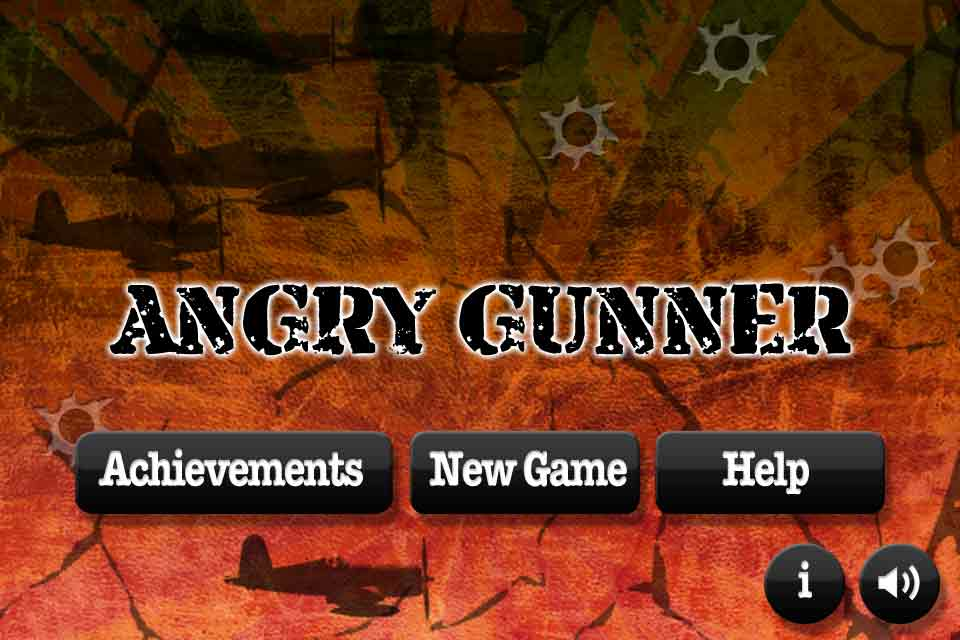
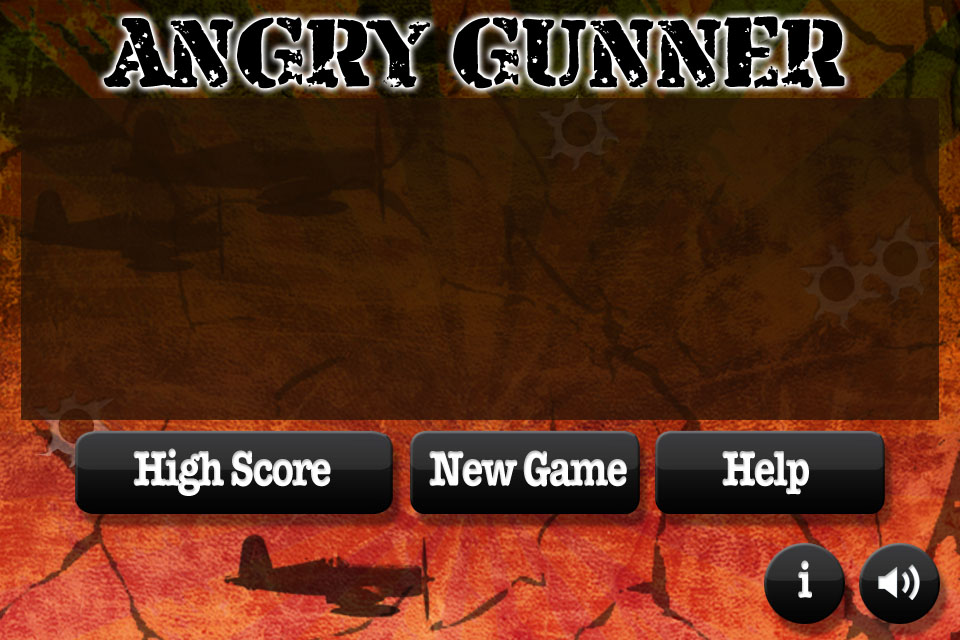
tweaked start screen

diff --git a/Classes/Start.m b/Classes/Start.m
@@ -8,7 +8,7 @@
 
 #import "Start.h"
 #import "Game.h"
-#import "Achievement.h"
+#import "Score.h"
 #import "Sound.h"
 #import "LevelData.h"
 #import "AchievementManager.h"
@@ -52,16 +52,16 @@ CCMenu *multiplierMenu;
         
         CCSprite *up =[CCSprite spriteWithFile:@"up.png"];
         [up setAnchorPoint:ccp(.5,.5)];
-        [up setPosition:ccp(450,290)];
+        [up setPosition:ccp(440,238)];
         [self addChild:up];
 
         CCSprite *down =[CCSprite spriteWithFile:@"down.png"];
         [down setAnchorPoint:ccp(.5,.5)];
-        [down setPosition:ccp(450,215)];
+        [down setPosition:ccp(440,140)];
         [self addChild:down];
 
-		CCMenuItem *options = [CCMenuItemFont itemFromString:@"ACHIEVEMENTS" target:self selector:@selector(viewAchievement:)];
-		CCMenuItem *start = [CCMenuItemFont itemFromString:@"|NewGa|" target:self selector:@selector(startGame:)];
+		CCMenuItem *score = [CCMenuItemFont itemFromString:@"VIEWHIGHSCORE" target:self selector:@selector(viewHighScore:)];
+		CCMenuItem *start = [CCMenuItemFont itemFromString:@"|NEWGA|" target:self selector:@selector(startGame:)];
 		CCMenuItem *help = [CCMenuItemFont itemFromString:@"HelpInfo" target:self selector:@selector(viewHelp:)];
 		CCMenuItem *info = [CCMenuItemFont itemFromString:@"INF" target:self selector:@selector(viewInfo:)];
 		CCMenuItem *speaker1 = [CCMenuItemFont itemFromString:@"SPP" target:self selector:@selector(toggleSpeaker:)];
@@ -69,7 +69,7 @@ CCMenu *multiplierMenu;
 		
 		
 		
-		options.position = ccp(0,85);
+		score.position = ccp(0,85);
 		start.position = ccp(180,85);
 		help.position = ccp(295,85);
 		info.position = ccp(310,26);
@@ -77,35 +77,35 @@ CCMenu *multiplierMenu;
 		speaker2.position = ccp(360,16);
 		
 		
-		CCMenu *menu = [CCMenu menuWithItems: options,start,help,info,speaker1,speaker2,nil];
+		CCMenu *menu = [CCMenu menuWithItems: score,start,help,info,speaker1,speaker2,nil];
 		menu.position = ccp(90,0);
 		[menu setOpacity:0];
 		[self addChild:menu];
 
-        CCMenuItem *lowerMultiplier = [CCMenuItemFont itemFromString:@"Lower" target:self selector:@selector(lowerAchievement:)];
-        CCMenuItem *raiseMultiplier = [CCMenuItemFont itemFromString:@"Raise" target:self selector:@selector(raiseAchievement:)];
-        multiplierMenu = [CCMenu menuWithItems:lowerMultiplier,raiseMultiplier, nil];
+        CCMenuItem *lowerMultiplier = [CCMenuItemFont itemFromString:@"LOWER" target:self selector:@selector(lowerAchievement:)];
+        CCMenuItem *raiseMultiplier = [CCMenuItemFont itemFromString:@"RAISE" target:self selector:@selector(raiseAchievement:)];
+        [raiseMultiplier setPosition:ccp(0,102)];
         [lowerMultiplier setPosition:ccp(0,0)];
-        [raiseMultiplier setPosition:ccp(0,75)];
+        multiplierMenu = [CCMenu menuWithItems:lowerMultiplier,raiseMultiplier, nil];
         [multiplierMenu setAnchorPoint:ccp(.5,0)];
-        [multiplierMenu setPosition:ccp(450,215)];
+        [multiplierMenu setPosition:ccp(450,135)];
         [multiplierMenu setOpacity:0];
         [self addChild:multiplierMenu];
         
         title =
         [CCLabelTTF labelWithString:[NSString stringWithFormat:@"\nMISSION: %@",[AchievementManager getTitleByMultiplier:[[LevelData sharedLevelData]currentMultiplier]]] 
-                         dimensions:CGSizeMake(410, 120) alignment:CCTextAlignmentLeft  fontName:@"321impact.ttf" fontSize:30.0f];
+                         dimensions:CGSizeMake(385, 120) alignment:CCTextAlignmentLeft  fontName:@"321impact.ttf" fontSize:30.0f];
         [title setAnchorPoint:ccp(.5,.5)];
-        [title setPosition:ccp(225,280)];
+        [title setPosition:ccp(225,220)];
         [title setColor:ccc3(180,50,50)];
         [self addChild:title];
         
         
         achievement =
         [CCLabelTTF labelWithString:[AchievementManager getInstructionByMultiplier:[[LevelData sharedLevelData]currentMultiplier]]
-                         dimensions:CGSizeMake(410, 140) alignment:CCTextAlignmentLeft  fontName:@"321impact.ttf" fontSize:18.0f];
+                         dimensions:CGSizeMake(385, 80) alignment:CCTextAlignmentLeft  fontName:@"321impact.ttf" fontSize:18.0f];
         [achievement setAnchorPoint:ccp(.5,.5)];
-        [achievement setPosition:ccp(225,203)];
+        [achievement setPosition:ccp(225,173)];
         [achievement setColor:ccc3(180,160,50)];
         [self addChild:achievement];
                 
@@ -156,15 +156,15 @@ CCMenu *multiplierMenu;
     [self updateAchievement];
 }
 
--(void)viewAchievement:(id)sender
+-(void)viewHighScore:(id)sender
 {	
 	[self flash:sender];
     [self runAction:[CCSequence actions:[CCDelayTime actionWithDuration:.25],
-                     [CCCallFunc actionWithTarget:self selector:@selector(replaceAchievement)],nil]];
+                     [CCCallFunc actionWithTarget:self selector:@selector(replaceHighScore)],nil]];
 }
--(void)replaceAchievement
+-(void)replaceHighScore
 {	
-	[[CCDirector sharedDirector] replaceScene:[Achievement scene]];	
+	[[CCDirector sharedDirector] replaceScene:[Score scene]];	
 }
 
 -(void)startGame:(id)sender
